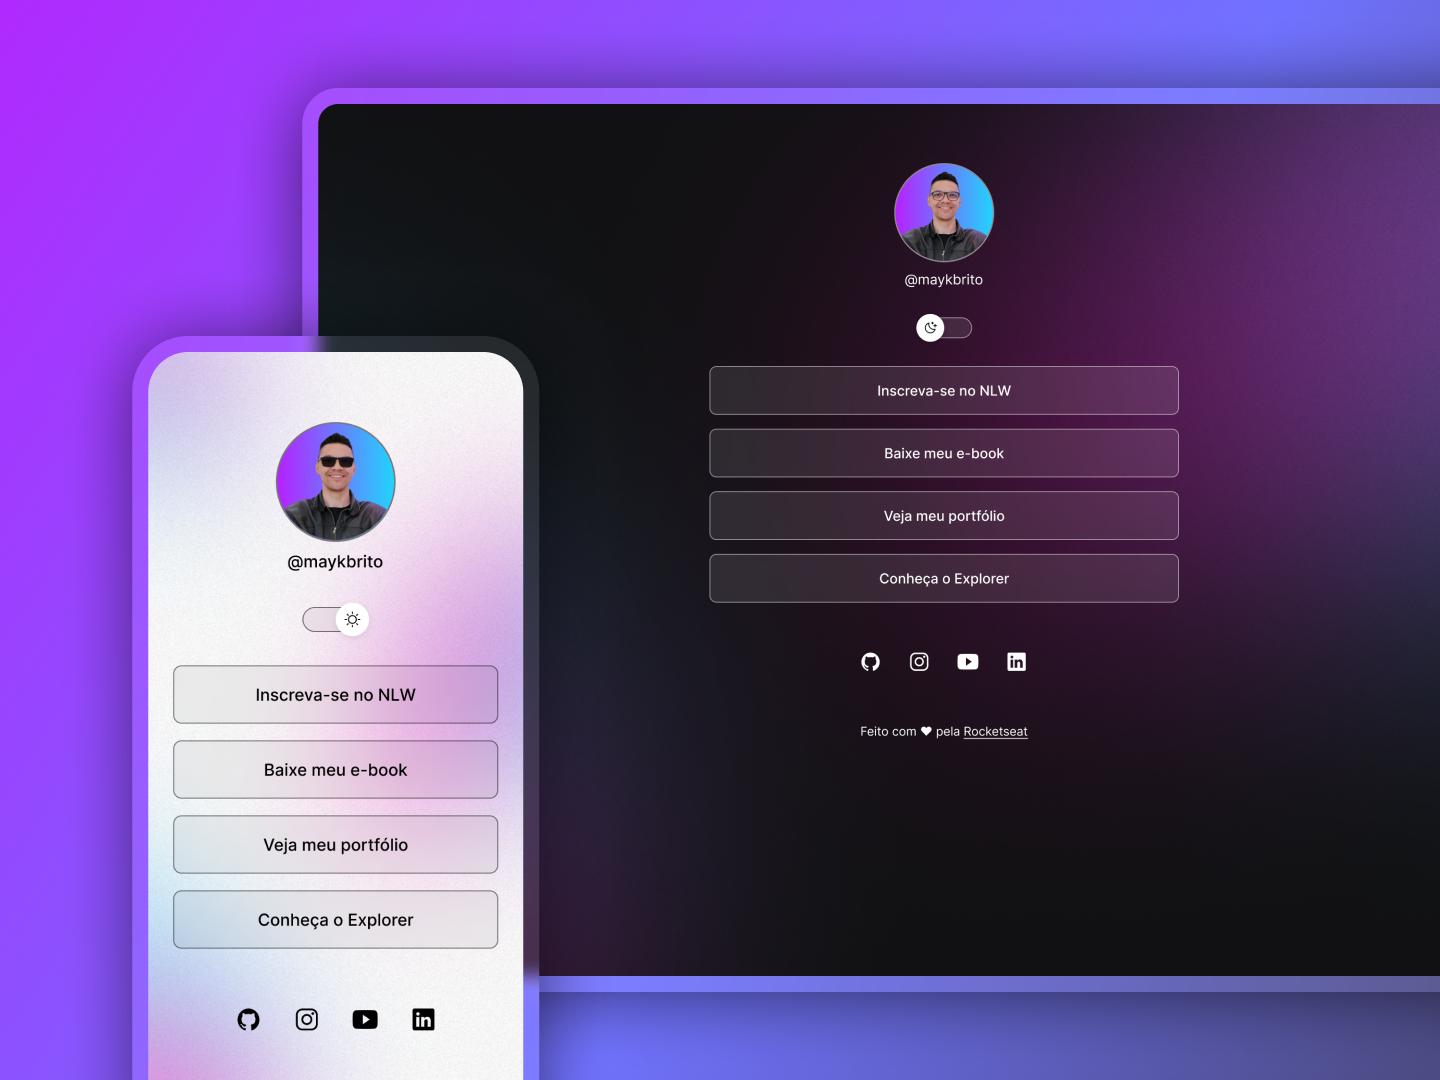
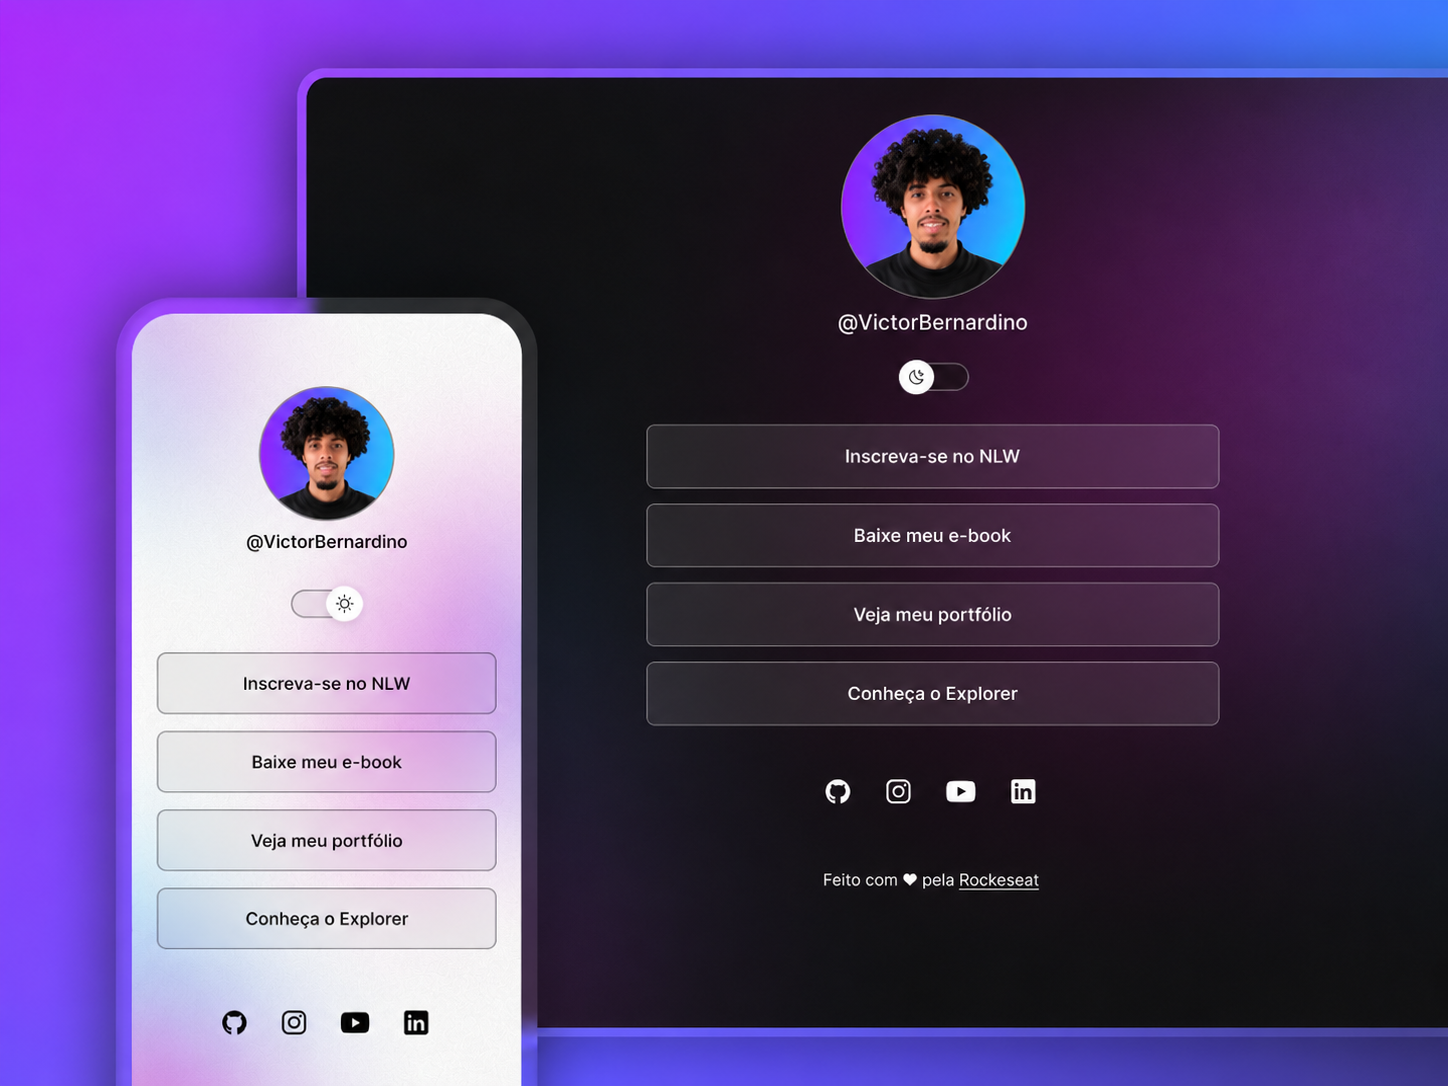
add README

Changed region(s): [[0.0, 0.0, 1.0, 1.0], [0.1562, 0.9167, 0.3125, 0.9778], [0.5625, 0.7944, 0.7188, 0.825]]

diff --git a/README.md b/README.md
@@ -19,7 +19,8 @@ Programa exclusivo e gratuito, promovido pela Rocketseat para ensino de tecnolog
 <br>
 
 <p align="center">
-  <img alt="projeto DevLinks" src=".github/Preview.jpg" width="100%">
+  <img alt="projeto DevLinks" 
+  src=".github/Preview.png" width="100%">
 </p>
 
 ## 🚀 Tecnologias
